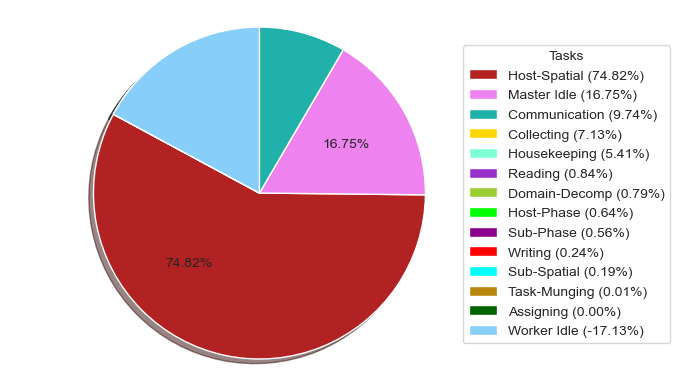
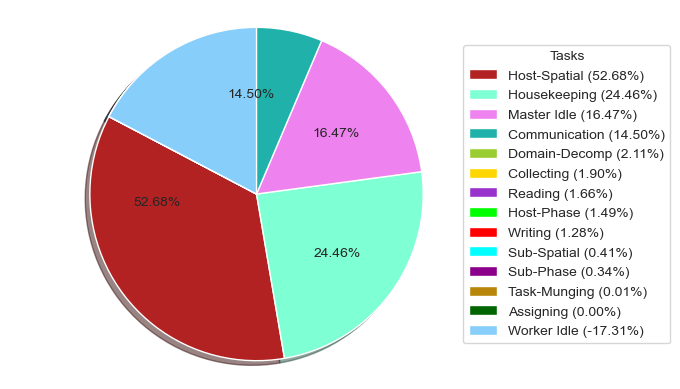
better balanced subhalos across tasks by adding a subhalo domain decompostion over ranks

diff --git a/core/kdhalofinder_mpi.py b/core/kdhalofinder_mpi.py
@@ -328,10 +328,10 @@ def find_phase_space_halos(halo_phases, linkl, vlinkl):
 
     npart = halo_phases.shape[0]
 
-    if npart > 10000:
+    if npart > 1000:
 
         # Define an array of limits for looping defined by the batchsize
-        limits = np.linspace(0, npart, int(npart / 10000) + 1, dtype=int)
+        limits = np.linspace(0, npart, int(npart / 1000) + 1, dtype=int)
 
     else:
 
@@ -1079,8 +1079,31 @@ def hosthalofinder(snapshot, llcoeff, sub_llcoeff, inputpath, savepath, ini_vlco
 
         results_per_rank = utilities.combine_tasks_networkx(results, size, halos_to_combine, npart)
 
-        print("Halos split between", size, "ranks:", np.sum([len(lst) for lst in results_per_rank]))
-        print("Halo division between", size, "ranks:\n", [len(lst) for lst in results_per_rank])
+        n_halos_per_rank = [len(lst) for lst in results_per_rank]
+        n_particles_per_rank = [0 for i in range(size)]
+        for ind, lst in enumerate(results_per_rank):
+            for s in lst:
+                n_particles_per_rank[ind] += len(s)
+
+        print("Halos split between", size, "ranks:", np.sum(n_halos_per_rank))
+        if size > 15:
+            n_halos_per_rank = [str(num) + ", " for num in n_halos_per_rank]
+            print("Halo division between", size, "ranks:")
+            for i in range(len(n_halos_per_rank) // 15 + 1):
+                print("".join(n_halos_per_rank[i * 15:(i + 1) * 15]) + "\n")
+        else:
+            print("Halo division between", size, "ranks:")
+            print(n_halos_per_rank)
+
+        print("Particles split between", size, "ranks:", np.sum(n_particles_per_rank))
+        if size > 15:
+            n_halos_per_rank = [str(num) + ", " for num in n_particles_per_rank]
+            print("Particles division between", size, "ranks:")
+            for i in range(len(n_halos_per_rank) // 15 + 1):
+                print("".join(n_halos_per_rank[i * 15:(i + 1) * 15]) + "\n")
+        else:
+            print("Particles division between", size, "ranks:")
+            print(n_particles_per_rank)
 
         if verbose:
             print("Combining the results took", time.time() - combine_start, "seconds")
@@ -1117,6 +1140,7 @@ def hosthalofinder(snapshot, llcoeff, sub_llcoeff, inputpath, savepath, ini_vlco
     # Extract this ranks spatial halo dictionaries
     sub_vlcoeffs = {}
     subhalo_pids = {}
+    phase_subhalo_pids = {}
     haloID_dict = {}
     subhaloID_dict = {}
 
@@ -1224,9 +1248,7 @@ def hosthalofinder(snapshot, llcoeff, sub_llcoeff, inputpath, savepath, ini_vlco
 
             # Create subhalos tasks to test subhalos in phase space
             for halo in task_subhalo_pids:
-                halo_tasks.update({(3, newtaskID)})
-                subhalo_pids[(3, newtaskID)] = task_subhalo_pids[halo]
-                sub_vlcoeffs[(3, newtaskID)] = ini_vlcoeff
+                phase_subhalo_pids[(3, newtaskID)] = task_subhalo_pids[halo]
 
                 # Increment task ID
                 newtaskID += 1
@@ -1236,51 +1258,111 @@ def hosthalofinder(snapshot, llcoeff, sub_llcoeff, inputpath, savepath, ini_vlco
                 profile_dict["Task-Munging"]["Start"].append(taskmunging_start)
                 profile_dict["Task-Munging"]["End"].append(time.time())
 
-        elif thisTask[0] == 3:
+    # Collect child process results
+    collect_start = time.time()
+    collected_subhalo_pids = comm.gather(phase_subhalo_pids, root=0)
 
-            subhaloID = thisTask
-            thissubhalo_pids = subhalo_pids[thisTask]
-            vlcoeff = sub_vlcoeffs[thisTask]
+    if profile:
+        profile_dict["Collecting"]["Start"].append(collect_start)
+        profile_dict["Collecting"]["End"].append(time.time())
 
-            subhalo_poss = pos[rank_indices[thissubhalo_pids], :]
-            subhalo_vels = vel[rank_indices[thissubhalo_pids], :]
+    if rank == 0:
 
-            subhalo_poss = utilities.wrap_halo(subhalo_poss, boxsize, domean=False)
+        start_dd = time.time()
 
-            result = get_real_sub_halos(subhaloID, thissubhalo_pids, subhalo_poss, subhalo_vels, boxsize,
-                                        vlinkl_indp, sub_linkl, pmass, ini_vlcoeff, decrement,
-                                        redshift, G, h, soft, min_vlcoeff)
+        chunked_subhalo_pids = utilities.decomp_subhalos(collected_subhalo_pids, size)
 
-            subhaloID, results, extra_subhalo_pids, extra_sub_vlcoeffs, post_subhalo_pids = result
+        if profile:
+            profile_dict["Domain-Decomp"]["Start"].append(start_dd)
+            profile_dict["Domain-Decomp"]["End"].append(time.time())
 
-            sub_results_dict[subhaloID] = results
+    else:
 
-            if profile:
-                profile_dict["Sub-Phase"]["Start"].append(task_start)
-                profile_dict["Sub-Phase"]["End"].append(time.time())
+        chunked_subhalo_pids = None
 
-            taskmunging_start = time.time()
+    comm_start = time.time()
+    subhalo_pids = comm.scatter(chunked_subhalo_pids, root=0)
 
-            # Create subhalos tasks from the completed halos
-            for res in post_subhalo_pids:
+    if profile:
+        profile_dict["Communication"]["Start"].append(comm_start)
+        profile_dict["Communication"]["End"].append(time.time())
 
-                phase_part_haloids[post_subhalo_pids[res], 1] = newPhaseSubID
+    set_up_start = time.time()
 
-                # Increment task ID
-                newtaskID += 1
-                newPhaseSubID += 1
+    # Get the particles on this node
+    thisRank_parts = subhalo_pids.pop("parts_on_rank")
 
-            for key in extra_subhalo_pids:
-                halo_tasks.update({(3, newtaskID)})
-                subhalo_pids[(3, newtaskID)] = extra_subhalo_pids[key]
-                sub_vlcoeffs[(3, newtaskID)] = extra_sub_vlcoeffs[key]
+    # Define the particles in this rank and an array of indices for them
+    rank_indices = np.full(npart, np.nan, dtype=np.uint32)
+    if len(thisRank_parts) > 0:
+        rank_indices[thisRank_parts] = np.arange(0, len(thisRank_parts), dtype=np.uint16)
 
-                # Increment task ID
-                newtaskID += 1
+    # Open hdf5 file
+    hdf = h5py.File(inputpath + "mega_inputs_" + snapshot + ".hdf5", 'r')
 
-            if profile:
-                profile_dict["Task-Munging"]["Start"].append(taskmunging_start)
-                profile_dict["Task-Munging"]["End"].append(time.time())
+    # Get the position and velocity of each particle in this rank
+    pos = hdf['part_pos'][thisRank_parts, :]
+    vel = hdf['part_vel'][thisRank_parts, :]
+
+    hdf.close()
+
+    # Get the subhalo tasks from the keys returned by the decomposition
+    subhalo_tasks = set(subhalo_pids.keys())
+
+    if profile:
+        profile_dict["Housekeeping"]["Start"].append(set_up_start)
+        profile_dict["Housekeeping"]["End"].append(time.time())
+
+    # Loop through halos
+    while len(subhalo_tasks) > 0:
+
+        thisTask = subhalo_tasks.pop()
+
+        task_start = time.time()
+
+        subhaloID = thisTask
+        thissubhalo_pids = subhalo_pids[thisTask]
+        # vlcoeff = sub_vlcoeffs[thisTask]
+
+        subhalo_poss = pos[rank_indices[thissubhalo_pids], :]
+        subhalo_vels = vel[rank_indices[thissubhalo_pids], :]
+
+        subhalo_poss = utilities.wrap_halo(subhalo_poss, boxsize, domean=False)
+
+        result = get_real_sub_halos(subhaloID, thissubhalo_pids, subhalo_poss, subhalo_vels, boxsize,
+                                    vlinkl_indp, sub_linkl, pmass, ini_vlcoeff, decrement,
+                                    redshift, G, h, soft, min_vlcoeff)
+
+        subhaloID, results, extra_subhalo_pids, extra_sub_vlcoeffs, post_subhalo_pids = result
+
+        sub_results_dict[subhaloID] = results
+
+        if profile:
+            profile_dict["Sub-Phase"]["Start"].append(task_start)
+            profile_dict["Sub-Phase"]["End"].append(time.time())
+
+        taskmunging_start = time.time()
+
+        # Create subhalos tasks from the completed halos
+        for res in post_subhalo_pids:
+
+            phase_part_haloids[post_subhalo_pids[res], 1] = newPhaseSubID
+
+            # Increment task ID
+            newtaskID += 1
+            newPhaseSubID += 1
+
+        for key in extra_subhalo_pids:
+            subhalo_tasks.update({(3, newtaskID)})
+            subhalo_pids[(3, newtaskID)] = extra_subhalo_pids[key]
+            sub_vlcoeffs[(3, newtaskID)] = extra_sub_vlcoeffs[key]
+
+            # Increment task ID
+            newtaskID += 1
+
+        if profile:
+            profile_dict["Task-Munging"]["Start"].append(taskmunging_start)
+            profile_dict["Task-Munging"]["End"].append(time.time())
 
     # Collect child process results
     collect_start = time.time()

diff --git a/core/utilities.py b/core/utilities.py
@@ -332,12 +332,14 @@ def combine_tasks_networkx(results, ranks, halos_to_combine, npart):
     # Split into a list containing a list of halos for each rank
     newSpatialID = 0
     chunked_results = [[] for i in range(ranks)]
-    chunked_load = np.zeros(ranks)
+    chunked_part_load = np.zeros(ranks)
+    chunked_halo_load = np.ones(ranks)
     while len(results) > 0:
         res = results.pop()
         if len(res) >= 10:
-            i = np.argmin(chunked_load)
-            chunked_load[i] += len(res)
+            i = np.nanargmin(chunked_part_load)
+            chunked_part_load[i] += len(res)
+            chunked_halo_load[i] += 1
             chunked_results[i].append(res)
             spatial_part_haloids[list(res)] = newSpatialID
             newSpatialID += 1
@@ -397,6 +399,37 @@ def decomp_halos(results, ini_vlcoeff, nnodes):
     parts_in_rank = np.sort(ini_parts_in_rank)
 
     return halo_pids, vlcoeffs, tasks, parts_in_rank, newtaskID
+
+
+def decomp_subhalos(subhalo_pids_per_rank, ranks):
+
+    # Split into a list containing a list of halos for each rank
+    newTaskID = 0
+    chunked_part_load = np.zeros(ranks)
+    chunked_halo_load = np.zeros(ranks)
+    chunked_pids = [{} for i in range(ranks)]
+
+    # Initialise the key to store all particles on a rank
+    for i in range(ranks):
+        chunked_pids[i]["parts_on_rank"] = set()
+
+    for ind, subhalo_pids_dict in enumerate(subhalo_pids_per_rank):
+        while len(subhalo_pids_dict) > 0:
+            task = (3, newTaskID)
+            _, pids = subhalo_pids_dict.popitem()
+            if len(pids) >= 10:
+                i = np.argmin(chunked_part_load)
+                chunked_part_load[i] += len(pids)
+                chunked_halo_load[i] += 1
+                chunked_pids[i][task] = pids
+                chunked_pids[i]["parts_on_rank"].update(pids)
+                newTaskID += 1
+
+    # Convert sets of included particles on a rank to sorted arrays
+    for i in range(ranks):
+        chunked_pids[i]["parts_on_rank"] = np.sort(list(chunked_pids[i]["parts_on_rank"]))
+
+    return chunked_pids
 
 
 def combine_tasks_per_thread(results, rank, thisRank_parts):
